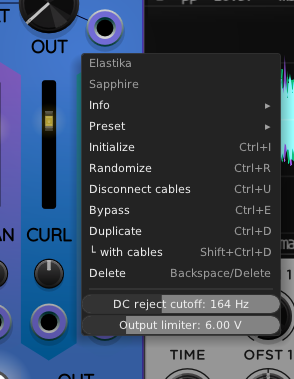
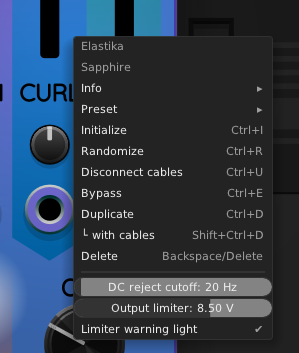
Elastika: added menu option to toggle limiter warning light.

diff --git a/src/elastika.cpp b/src/elastika.cpp
@@ -13,6 +13,7 @@ struct ElastikaModule : Module
     Sapphire::Slewer slewer;
     bool isPowerGateActive;
     bool isQuiet;
+    bool enableLimiterWarning;
 
     enum ParamId
     {
@@ -151,12 +152,26 @@ struct ElastikaModule : Module
         isQuiet = false;
         slewer.enable(true);
         params[POWER_TOGGLE_PARAM].setValue(1.0f);
+        enableLimiterWarning = true;
     }
 
     void onReset(const ResetEvent& e) override
     {
         Module::onReset(e);
         initialize();
+    }
+
+    json_t* dataToJson() override
+    {
+        json_t* root = json_object();
+        json_object_set_new(root, "limiterWarningLight", json_boolean(enableLimiterWarning));
+        return root;
+    }
+
+    void dataFromJson(json_t* root) override
+    {
+        json_t *warningFlag = json_object_get(root, "limiterWarningLight");
+        enableLimiterWarning = !json_is_boolean(warningFlag) || json_boolean_value(warningFlag);
     }
 
     void onSampleRateChange(const SampleRateChangeEvent& e) override
@@ -311,7 +326,6 @@ class ElastikaWarningLightWidget : public LightWidget
 {
 private:
     ElastikaModule *elastikaModule;
-    bool enableWarning = true;
 
     static int colorComponent(double scale, int lo, int hi)
     {
@@ -320,6 +334,8 @@ private:
 
     NVGcolor warningColor(double distortion)
     {
+        bool enableWarning = elastikaModule && elastikaModule->enableLimiterWarning;
+
         if (!enableWarning || distortion <= 0.0)
             return nvgRGBA(0, 0, 0, 0);     // no warning light
 
@@ -423,15 +439,24 @@ struct ElastikaWidget : ModuleWidget
 
     void appendContextMenu(Menu* menu) override
     {
-        if (elastikaModule && elastikaModule->dcRejectQuantity && elastikaModule->agcLevelQuantity)
+        if (elastikaModule != nullptr)
         {
             menu->addChild(new MenuSeparator);
 
-            // Add slider that adjusts the DC-reject filter's corner frequency.
-            menu->addChild(new DcRejectSlider(elastikaModule->dcRejectQuantity));
+            if (elastikaModule->dcRejectQuantity)
+            {
+                // Add slider that adjusts the DC-reject filter's corner frequency.
+                menu->addChild(new DcRejectSlider(elastikaModule->dcRejectQuantity));
+            }
 
-            // Add slider to adjust the AGC's level setting (5V .. 10V) or to disable AGC.
-            menu->addChild(new AgcLevelSlider(elastikaModule->agcLevelQuantity));
+            if (elastikaModule->agcLevelQuantity)
+            {
+                // Add slider to adjust the AGC's level setting (5V .. 10V) or to disable AGC.
+                menu->addChild(new AgcLevelSlider(elastikaModule->agcLevelQuantity));
+
+                // Add an option to enable/disable the warning slider.
+                menu->addChild(createBoolPtrMenuItem<bool>("Limiter warning light", "", &elastikaModule->enableLimiterWarning));
+            }
         }
     }
 };

diff --git a/Elastika.md b/Elastika.md
@@ -247,6 +247,14 @@ getting good results in your patch.
 If you disable the limiter, this is interpreted as a
 manual override, and the warning light will not turn on.
 
+If you don't want the warning light to come on, but you
+want to keep the limiter enabled, there is an option
+for this in the right-click context menu labeled
+*Limiter warning light*. Clicking on this option
+will toggle whether the warning light turns on
+when the limiter is active. The warning light option
+defaults to being enabled.
+
 ### Power button and gate
 
 Elastika uses more CPU than the typical module in VCV Rack.
